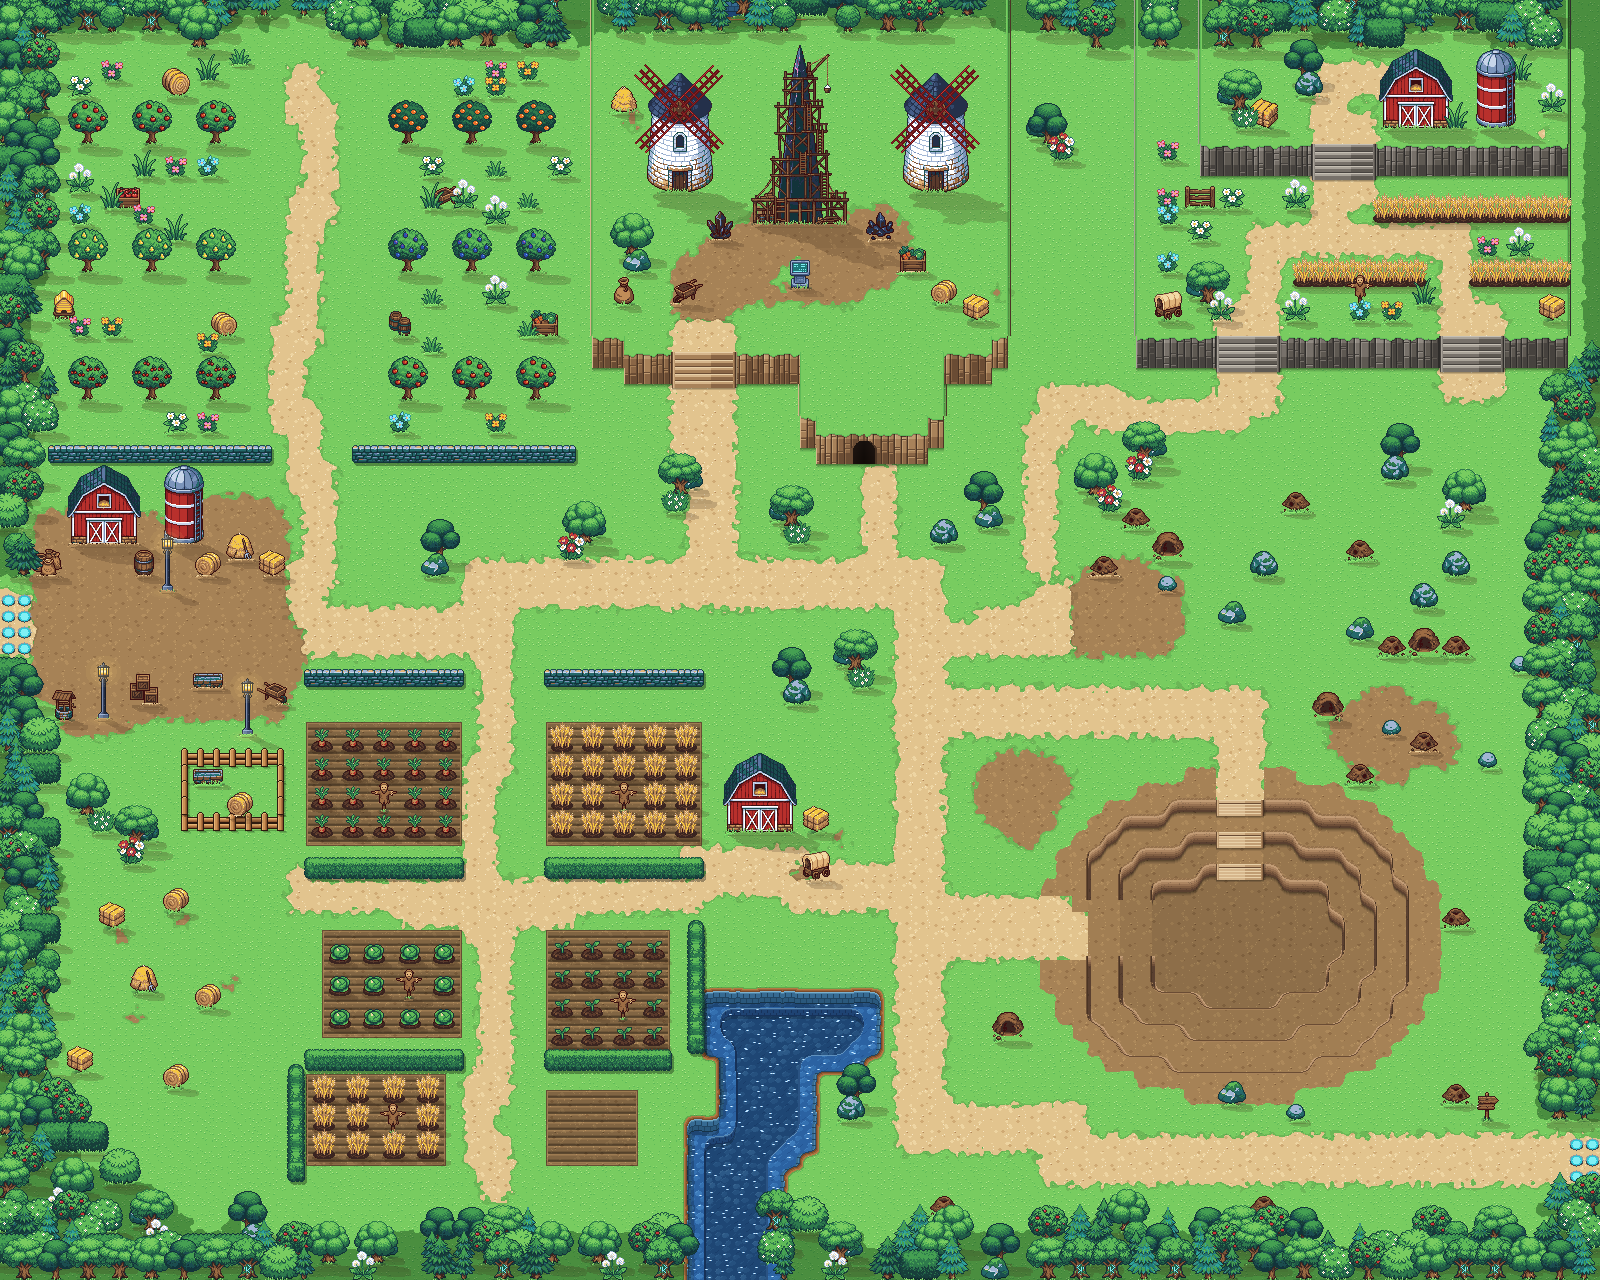
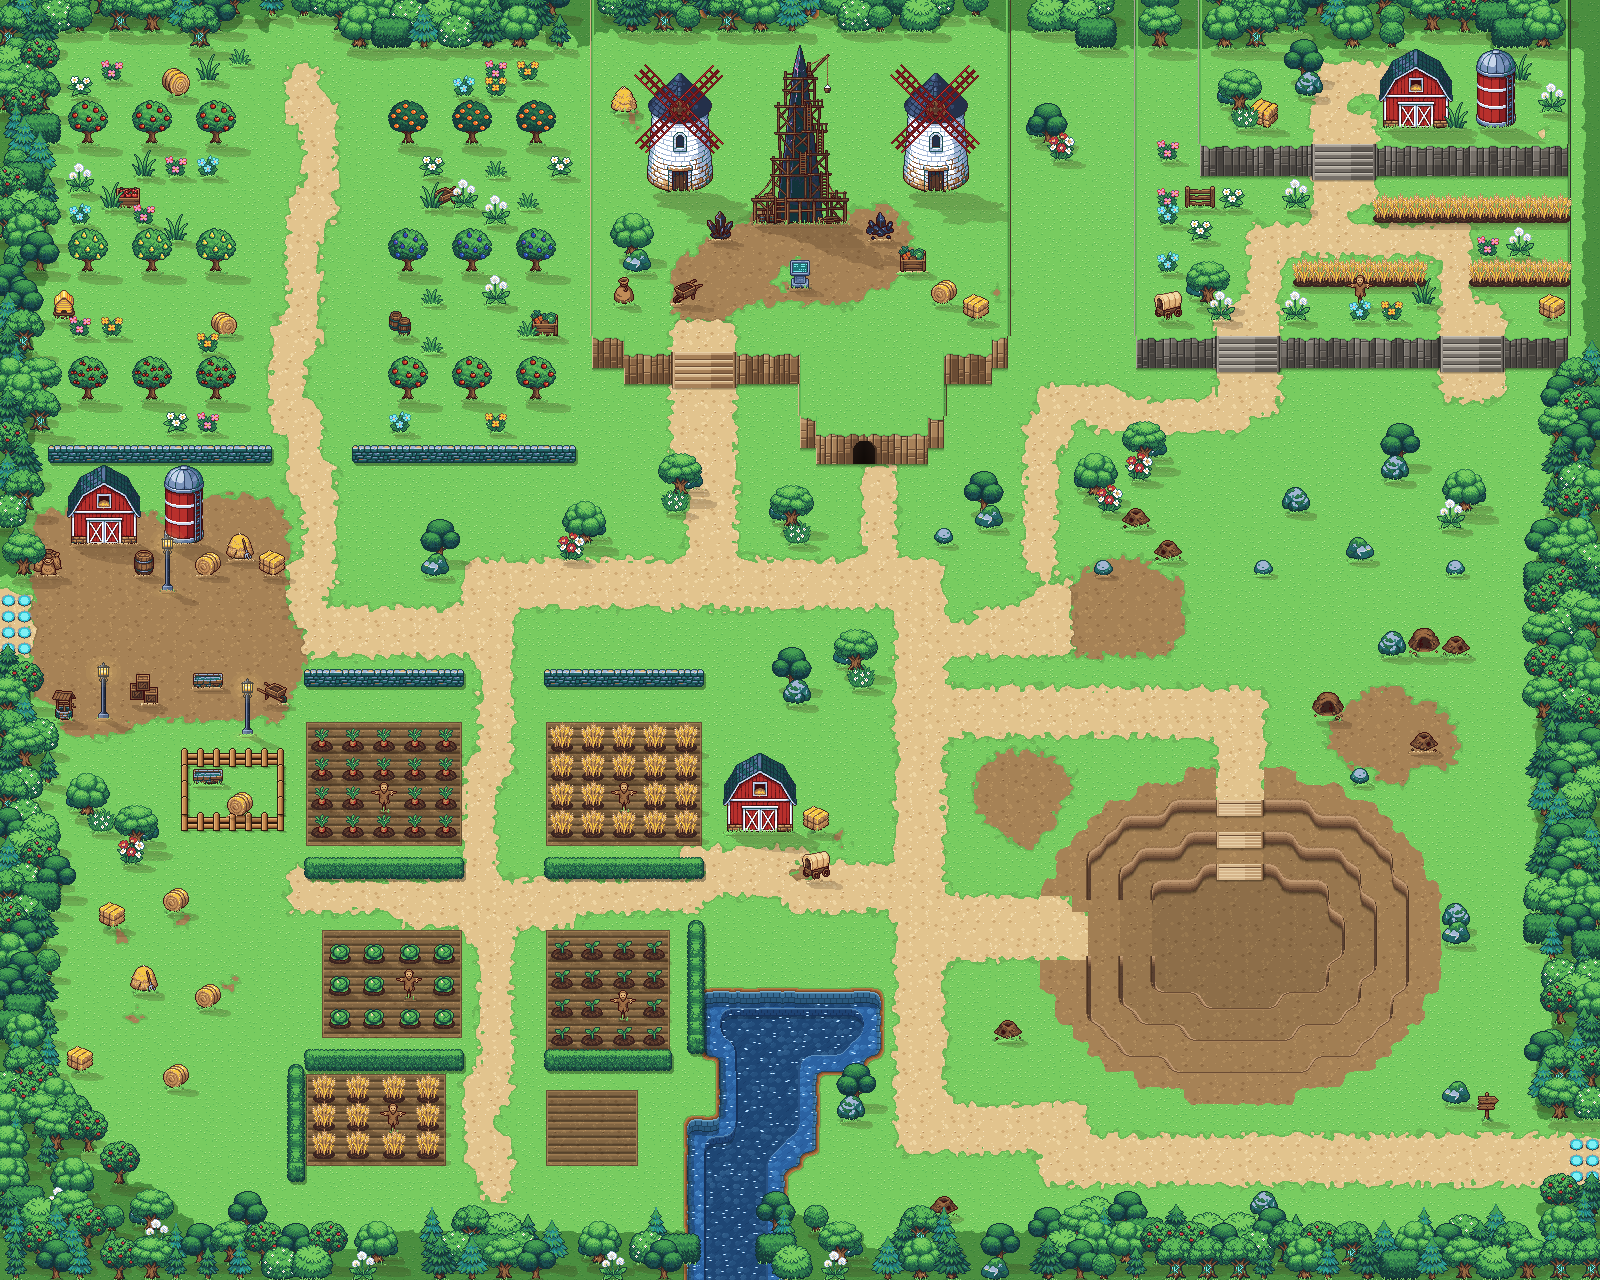
Karte 23: weniger Maulwurfshuegel unten rechts
Claude-Session: https://claude.ai/code/session_01SaoYHKhnro4LFcPJqjaPsq

diff --git a/tools/karte23_objekte.py b/tools/karte23_objekte.py
@@ -281,7 +281,7 @@ def main():
         if setze(rnd.choice(['k01/deko%02d' % i for i in (0, 1, 2, 3, 30)] + ['k01/deko05']), tx, ty, {'anim': 'wehen'}, frei=True):
             n_t += 1
     setze('maulwurf/03', 93, 69, {}, frei=True)                 # Wegweiser am Ausgang rechts unten
-    for name, ziel in (('maulwurf/01', 4), ('maulwurf/00', 12), ('k01/deko09', 4), ('k01/deko11', 3), ('k01/deko08', 5)):
+    for name, ziel in (('maulwurf/01', 2), ('maulwurf/00', 6), ('k01/deko09', 4), ('k01/deko11', 3), ('k01/deko08', 5)):
         n_ = 0                                                   # unten rechts: Maulwurfshuegel, Baue, Felsen (Vorlage)
         for _ in range(4000):
             if n_ >= ziel:
